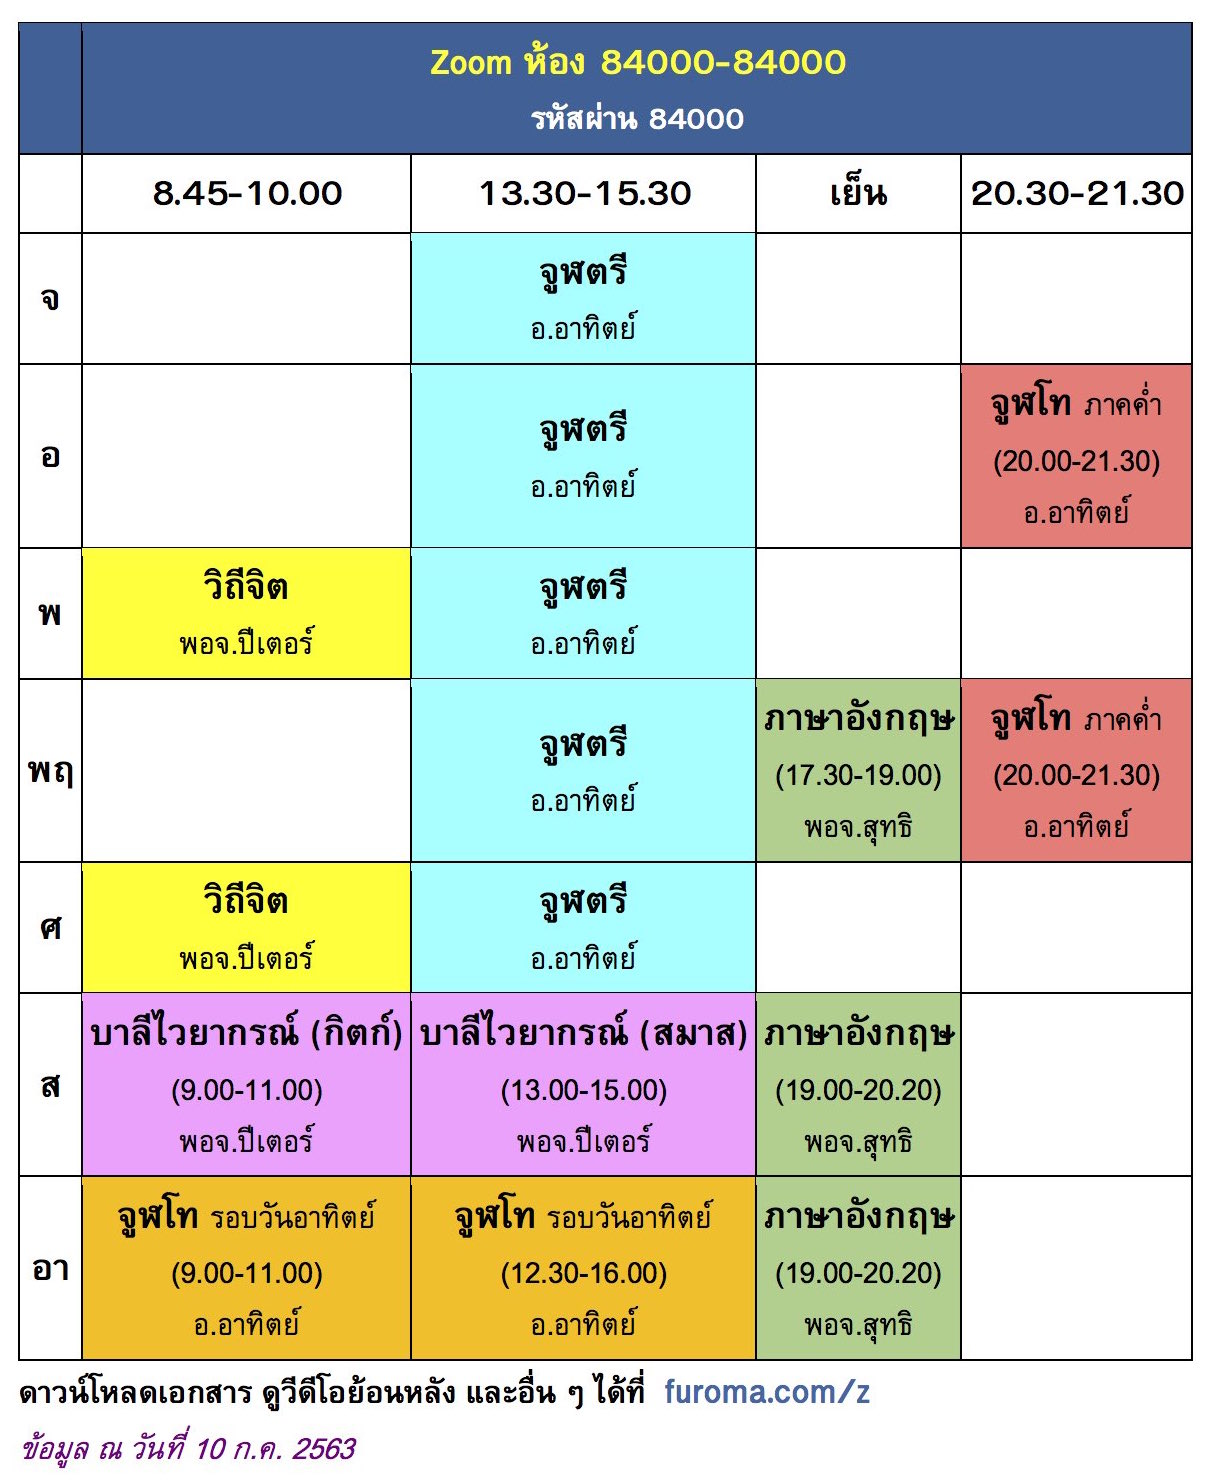
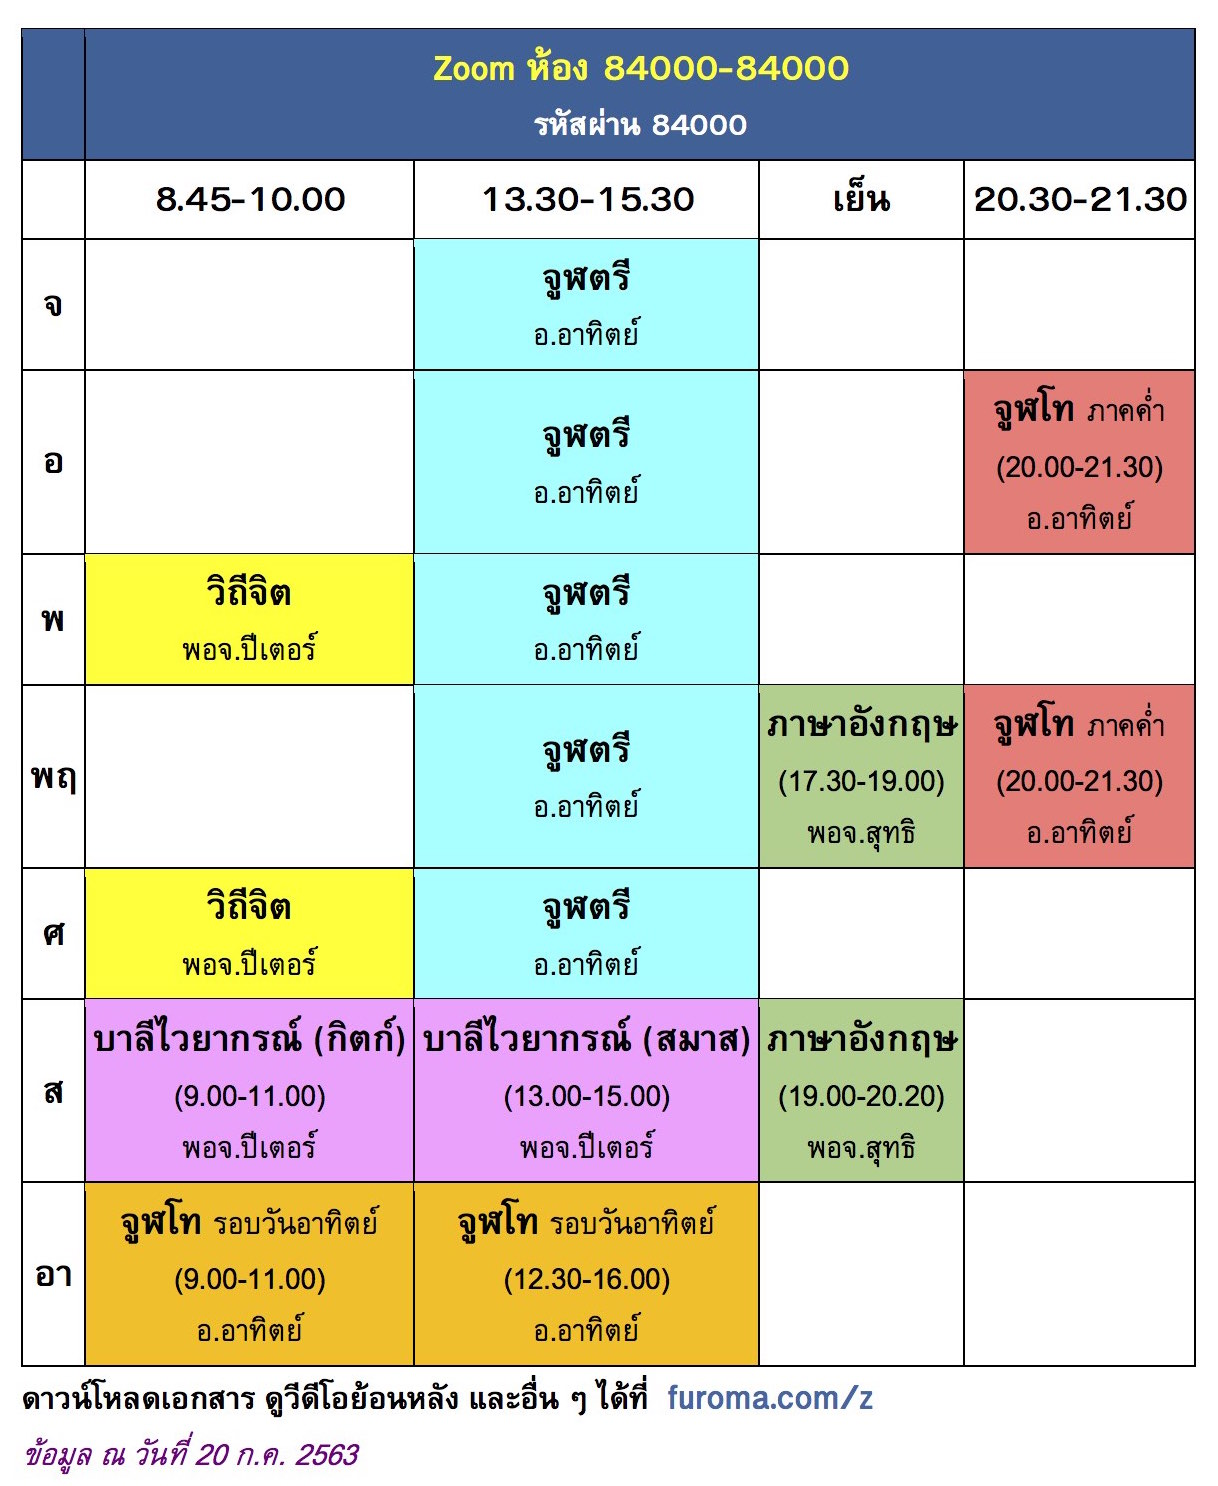
2020-07-20

Changed region(s): [[0.0, 0.0, 0.9745, 0.9919], [0.7918, 0.217, 0.9745, 0.372]]

diff --git a/links/index.html b/links/index.html
@@ -38,11 +38,13 @@
         <DIV class="mainbody">
             <H2>วัดจากแดง</H2>
             <A href="http://www.watchakdaeng.com" href="_blank">เว็บ</A> |
-            <A href="http://facebook.com/radiobodhiyalai" href="_blank">เฟสหลัก</A> |
+            <A href="http://facebook.com/radiobodhiyalai" href="_blank">เฟสโพธิยาลัย</A> |
             <A href="http://facebook.com/ห้องบาลีใหญ่-750701694977907" href="_blank">เฟสบาลีใหญ่</A> |
             <A href="http://facebook.com/บาลีอภิธรรม-วัดจากแดง-316373245453255" href="_blank">เฟสบาลี/อภิธรรม</A> |
+            <A href="https://facebook.com/tipitakasikkhalai/" href="_blank">เฟสติปิฏกสิกขาลัย</A><BR />
             <A href="https://www.youtube.com/channel/UCClB0LVa8U_djitr6ZM09Qw/playlists" href="_blank">ยูทูบบาลี</A> |
-            <A href="https://www.youtube.com/user/putthapun/playlists" href="_blank">ยูทูบพระไตรปิฎก</A>
+            <A href="https://www.youtube.com/user/putthapun/playlists" href="_blank">ยูทูบพระไตรปิฎก</A> |
+            <A href="https://www.youtube.com/channel/UC27b5SU_B9Oe2Qc6swIpyLA" href="_blank">ยูทูบติปิฏกสิกขาลัย</A>
 
             <HR style=width:50%>
             <H2>พอจ.ดารา</H2>
@@ -62,20 +64,26 @@
             <A href="http://bhavana-manjari.com/%e0%b8%9e%e0%b8%a3%e0%b8%b0%e0%b8%ad%e0%b8%a0%e0%b8%b4%e0%b8%98%e0%b8%a3%e0%b8%a3%e0%b8%a1/" target="_blank">(5)</A>
             <A href="http://bhavana-manjari.com/%e0%b8%9b%e0%b8%81%e0%b8%b4%e0%b8%93%e0%b8%81%e0%b8%98%e0%b8%a3%e0%b8%a3%e0%b8%a1/" target="_blank">(6)</A> |
 
+            <BR />พอจ.ประนอม (<A href="https://drive.google.com/drive/folders/1F9ObQiciV0m9-xauo6e5pVt6DQAH1mVP" target="_blank">ปาฬิสิกขา</A> |
+              <A href="https://drive.google.com/drive/folders/1vf65NZhGmNVCf1tdSaPR1iHDbTJl8cbS" target="_blank">ขุททกปาฐะ</A>) |
             <A href="http://www.watchakdaeng.com/textbook-by-master-tuan/" target="_blank">พอจ.ต่วน</A> |
-            <A href="https://drive.google.com/drive/folders/1RJLq6qVmZ6-uJzqzI-mIw4y3UjsK6jcK?usp=sharing&fbclid=IwAR0JuoOrFp-O1FgRUpmmNvtUhgEw7QYVQhJFk-NZKVKxPPCQ9GWZWGfi9NA" href="_blank">ทีมไฟล์วัดจากแดง</A> |
-            <A href="https://sites.google.com/site/hutthajit/" target="_blank">ท่านสีลานนฺท</A>
+            <A href="https://drive.google.com/drive/folders/1RJLq6qVmZ6-uJzqzI-mIw4y3UjsK6jcK?usp=sharing" href="_blank">ทีมไฟล์วัดจากแดง</A> |
+            <A href="https://sites.google.com/site/hutthajit/" target="_blank">ท่านสีลานนฺท</A> |
+            <A href="https://drive.google.com/drive/folders/1-M249UtDcVIVKe2VkgKioMdzedr-3F-1" target="_blank">กลุ่มปาฬิภาสา</A>
 
 
             <HR style=width:50%>
             <H2>คลังไฟล์พม่า</H2>
             <A href="http://dhammadownload.com/" target="_blank">DhammaDownload</A> |
             <A href="http://www.kbrl.gov.mm" target="_blank">KBRL</A> |
-            <A href="http://burmalibrary.org" target="_blank">Burma Library</A>
-            <A href="http://www.ibiblio.org/obl/show.php?cat=497" target="_blank">(Buddhist texts)</A>
+            <A href="http://burmalibrary.org" target="_blank">Burma Library</A> |
+            <A href="http://www.ibiblio.org/obl/show.php?cat=497" target="_blank">(Buddhist texts)</A> |
+            <A href="https://drive.google.com/drive/folders/1mfA4T8cYNyQNBFoTbLBuWELILd8uivfH?usp=sharing" href="_blank">บาฬีไวยากรณ์</A>
+
 
             <HR style=width:50%>
             <H2>คลังไฟล์โรมัน/อังกฤษ/เยอรมัน</H2>
+            <A href="http://library.bdrc.io/" target="_blank">BDRC</A> |
             <A href="http://www.worldlibrary.org/Results?SearchEverything=pali&EverythingType=0" target="_blank">World Lib</A> |
             Archive.org
             (<A href="https://archive.org/search.php?query=creator%3A%22Pali%20Text%20Society%20%28London%2C%20England%29%22" target="_blank">PTS</A> |

diff --git a/z/index.html b/z/index.html
@@ -49,7 +49,7 @@
 
 
   <A href=https://zoom.us/j/8400042000?pwd=SW1GOXp2Yk5xZTNtYmdjZER2bS9hdz09>
-  <SPAN class=banner>คลิกเพื่อเข้าห้อง <SPAN style="color:yellow">84000 42000</SPAN><BR />อินทริย / สัจจ <SPAN style="font-weight:bold">ยมก</SPAN><BR/>
+  <SPAN class=banner>คลิกเพื่อเข้าห้อง <SPAN style="color:yellow">84000 42000</SPAN><BR />อินทริย / สัจจ / อายตน<SPAN style="font-weight:bold">ยมก</SPAN><BR/>
 จูฬเอก / ขุททกปาฐะ</SPAN></A>
 
 <A href=https://zoom.us/j/8400084000?pwd=OUhydDBhbm5BMm5uZCtnR2lRVlRydz09>
@@ -61,8 +61,8 @@
 <B>ปัจจยาการวิภังค์</B>: เลื่อนคลาสวันที่ 15 เม.ย. เป็นวันที่ 14 เม.ย.</SPAN><!---->
 
 <TABLE cellpadding=0 cellspacing=0 align=center><TR valign=top><TD>
-<A href=42000.jpg?07-10><IMG border=0 src="42000.jpg?07-10" width=500px height=600px /></A>
-<A href=84000.jpg?07-10><IMG border=0 src="84000.jpg?07-10" width=500px height=600px /></A></TABLE>
+<A href=42000.jpg?07-20><IMG border=0 src="42000.jpg?07-20" width=500px height=600px /></A>
+<A href=84000.jpg?07-20><IMG border=0 src="84000.jpg?07-20" width=500px height=600px /></A></TABLE>
 (คลิกที่รูป เพื่อดูตารางสอนที่ใหญ่ขึ้น)<BR/>
 
 <BR/><SPAN style="text-align:center; color:magenta; font-size:22px; font-weight:bold;">สื่อการเรียน</SPAN>
